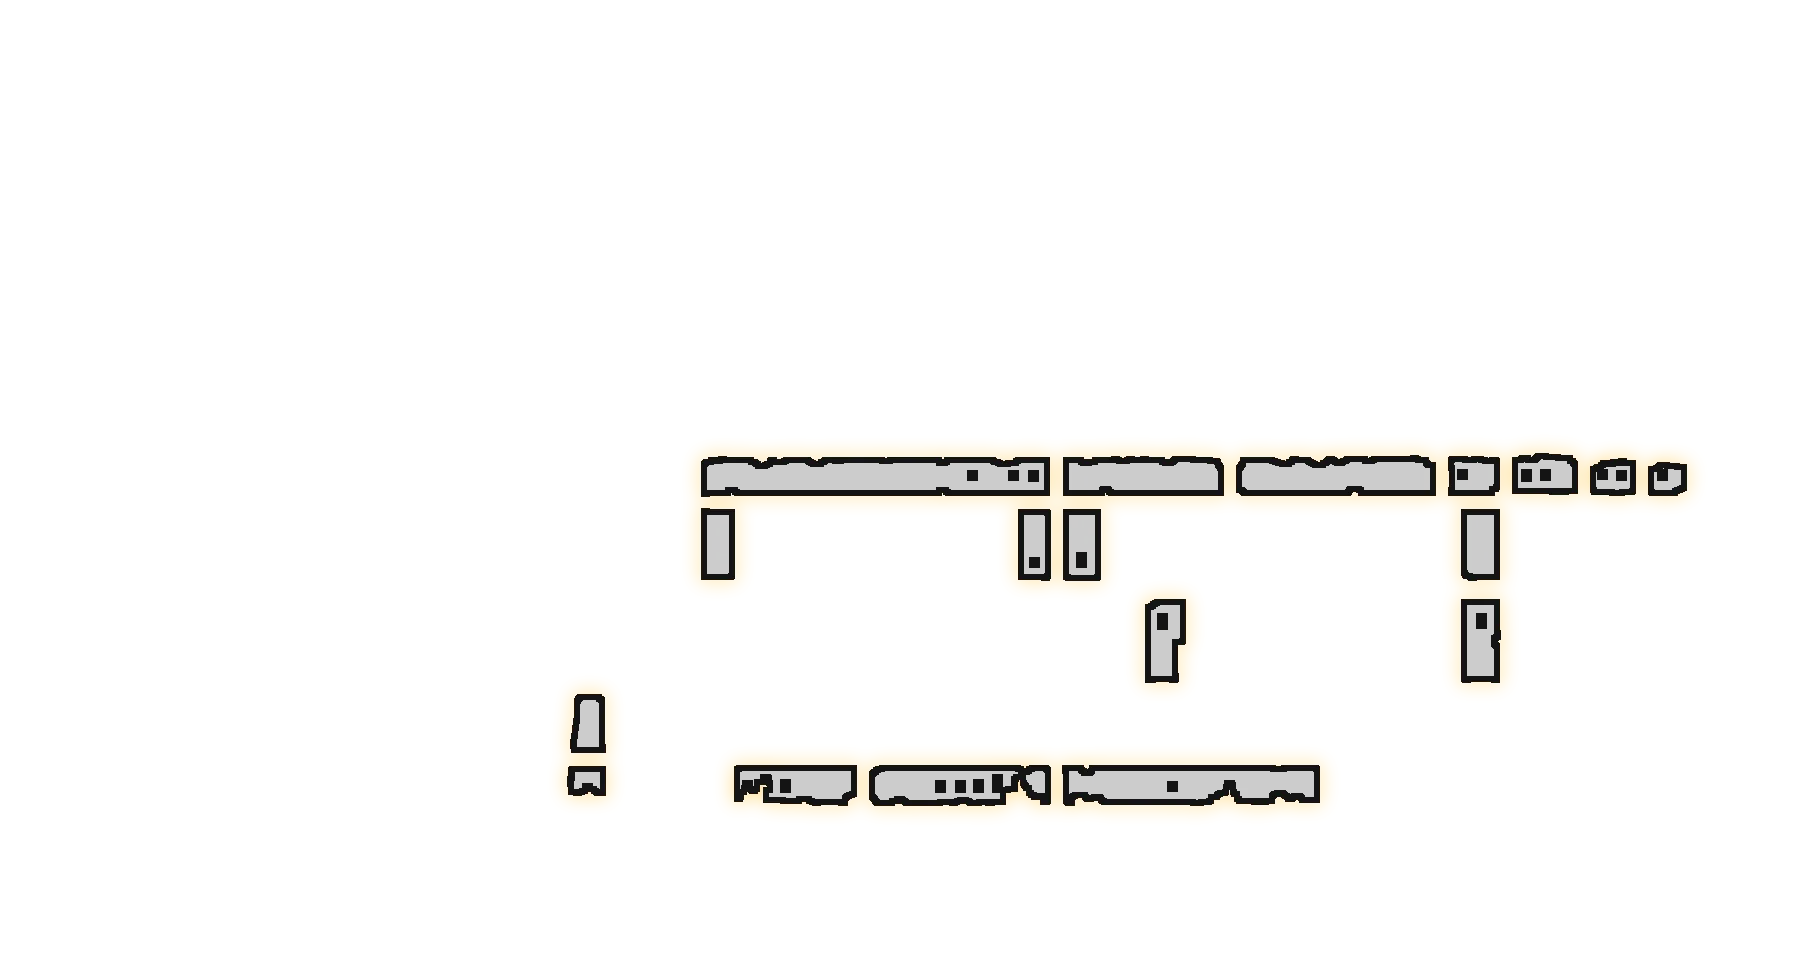
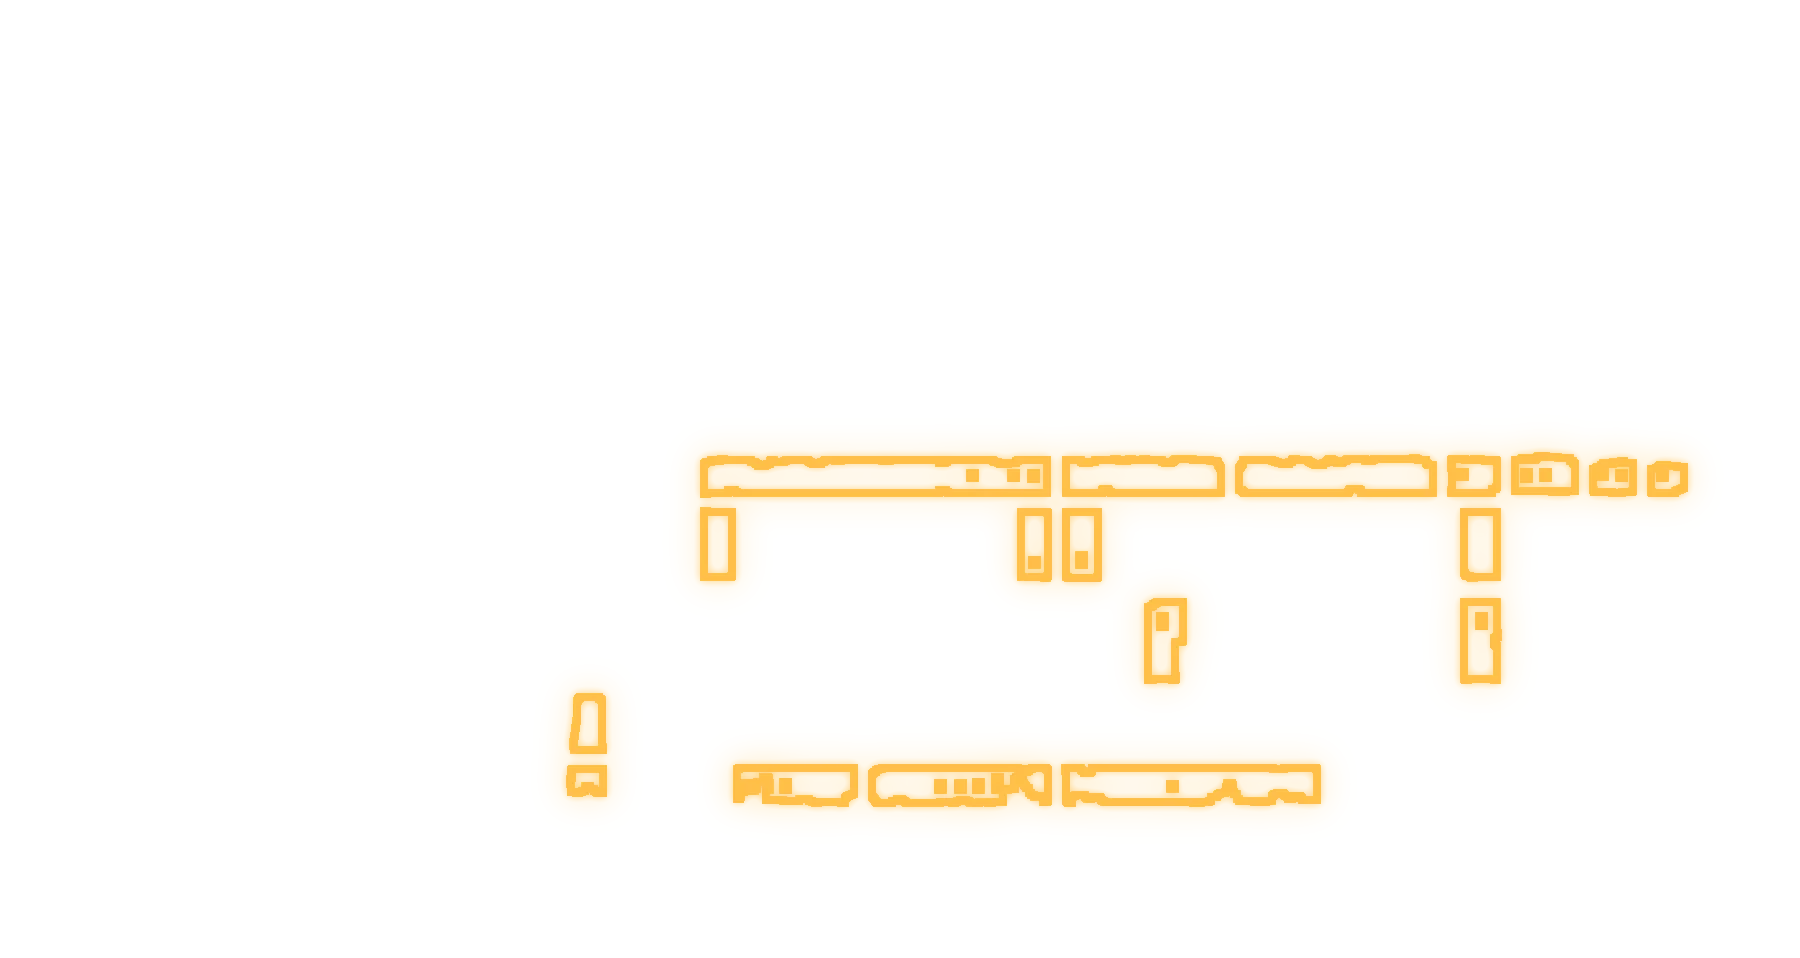
Fix black hover fill, correct s5 plot bounds, more vibrant glow
- Removed the semi-transparent black fill that was washing over the
  entire interior of a hovered/tapped plot category — that's what
  was reading as "black on the whole" section. Now nothing dims;
  only a warm gold ring + soft bloom mark the selection, and the
  plot's own colours/numbers stay fully visible
- Fixed the 231-268 (30x40ft) region: the second block's manual
  rectangle was both missing its top 3 rows (255-257) and bleeding
  down into the park/roundabout below row 268 — re-measured both
  blocks precisely against the drawing
- Replaced the black elevation drop-shadow with a warm amber one,
  and added a slow pulsing glow animation so the highlight breathes
  instead of sitting static — no black anywhere in the effect now
- Clubhouse: increased the image frame height ~5% (900px/97vh
  desktop, 590px/69vh and 546px/80vh at the two mobile breakpoints)
  so it fills more of the viewport

diff --git a/client/src/styles/global.css b/client/src/styles/global.css
@@ -2317,8 +2317,16 @@ h3 {
 }
 .mplan-real-hl.on {
   opacity: 1;
-  /* lifts the selected plot off the flat drawing */
-  filter: drop-shadow(0 14px 20px rgba(0, 0, 0, 0.42)) drop-shadow(0 3px 6px rgba(0, 0, 0, 0.3));
+  /* warm glowing lift — no black anywhere, just a breathing gold bloom */
+  animation: mplanGlowPulse 1.8s ease-in-out infinite;
+}
+@keyframes mplanGlowPulse {
+  0%, 100% {
+    filter: drop-shadow(0 0 9px rgba(255, 191, 71, 0.5)) drop-shadow(0 8px 16px rgba(120, 80, 20, 0.28));
+  }
+  50% {
+    filter: drop-shadow(0 0 22px rgba(255, 191, 71, 0.9)) drop-shadow(0 8px 18px rgba(120, 80, 20, 0.32));
+  }
 }
 
 /* tooltip that follows the cursor over the plan */
@@ -2401,7 +2409,7 @@ h3 {
   position: relative;
   display: flex;
   align-items: center;
-  min-height: min(860px, 92vh);
+  min-height: min(900px, 97vh);
   padding: 4em 0;
   overflow: hidden;
   background: #17160f;
@@ -2460,7 +2468,7 @@ h3 {
   /* the mobile crop opens onto sky at the top and quiet paving at the
      bottom — copy anchors near the tree up top, stats pin to the base,
      nothing covers the entrance signage or pool in the middle */
-  .club2-frame { display: block; min-height: min(560px, 66vh); padding: 0; }
+  .club2-frame { display: block; min-height: min(590px, 69vh); padding: 0; }
   .club2-bg { object-position: center top; }
   .club2-scrim {
     background:
@@ -2486,7 +2494,7 @@ h3 {
   .club2-stat em { font-size: 10px; margin-top: 3px; }
 }
 @media (max-width: 560px) {
-  .club2-frame { min-height: min(520px, 76vh); }
+  .club2-frame { min-height: min(546px, 80vh); }
   .club2-stats { gap: 12px; }
 }
 
